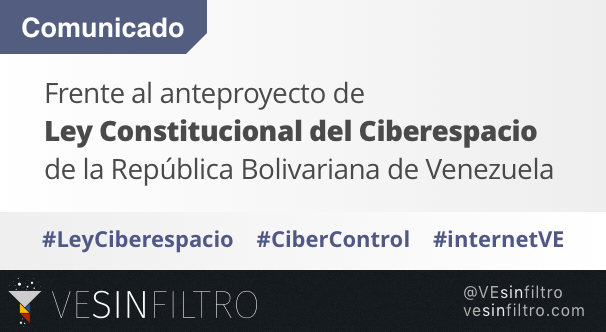
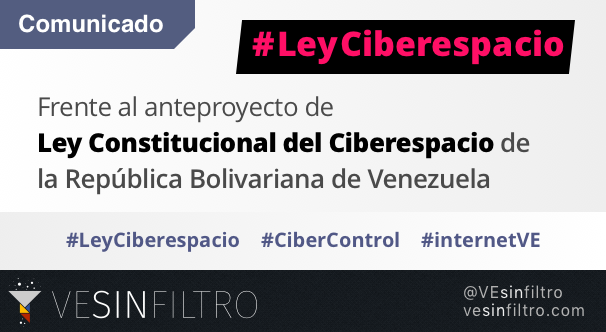
Updat img comunicado #leyciberespacio

Changed region(s): [[0.0594, 0.0602, 0.9505, 0.5723], [0.0594, 0.6928, 0.9505, 0.753], [0.0, 0.0, 0.3564, 0.1807]]

diff --git a/_noticias/2019-01-17-comunicado_ley_ciberespacio.md b/_noticias/2019-01-17-comunicado_ley_ciberespacio.md
@@ -1,11 +1,13 @@
 ---
 layout: post
 title: Frente al anteproyecto de Ley Constitucional del Ciberespacio de la República Bolivariana de Venezuela
-small: "Comunicado: Frente a la Ley del Ciberespacio"
+small: "Comunicado: Nos oponemos a la #LeyCiberespacio"
 excerpt: La Ley Constitucional del Ciberespacio justifica y expande aún más los poderes del gobierno para controlar y vigilar el uso de internet sin contrapesos institucionales.
 permalink: /noticias/comunicado_ley_ciberespacio/
 date:   2019-01-17 01:00:00 -0400
 categories: bloqueos
+image: /res/post_img/2019-01-17-comunicado.png
+
 ---
 
 ### COMUNICADO
@@ -18,21 +20,21 @@ Desde 2007 el Estado venezolano ha desarrollado políticas públicas orientadas 
 
 La Ley Constitucional del Ciberespacio justifica y expande aún más los poderes del gobierno para controlar y vigilar el uso de internet sin contrapesos institucionales, lo cual representa una grave amenaza a los derechos humanos de los venezolanos y venezolanas. El anteproyecto crea un sistema nacional de ciberdefensa, bajo la doctrina de "defensa integral de la Nación" con autoridad sobre un vagamente definido "Ciberespacio de la República Bolivariana de Venezuela", provocando que los venezolanos queden limitados a una red controlada, aislada y fragmentada.
 
-En síntesis, este proyecto tiene un enfoque de securitización del uso de tecnologías de información y comunicación, basado en nociones de soberanía, seguridad nacional y “control del orden interno” (Artículos 3, 5, 7 y 18) que se utilizan para justificar la adopción de medidas que violan derechos fundamentales, incluyendo la libertad de expresión, el derecho a participar en asuntos públicos y la protección de los datos personales. Adicionalmente, extiende el concepto de terrorismo a cualquier actividad realizada en internet o a través de ella, que pueda “causar terror” o “desestabilización económica, política o social” (Art. 4), lo que permitiría sancionar la expresión de opiniones legítimas. 
+En síntesis, este proyecto tiene un enfoque de securitización del uso de tecnologías de información y comunicación, basado en nociones de soberanía, seguridad nacional y “control del orden interno” (Artículos 3, 5, 7 y 18) que se utilizan para justificar la adopción de medidas que violan derechos fundamentales, incluyendo la libertad de expresión, el derecho a participar en asuntos públicos y la protección de los datos personales. Adicionalmente, extiende el concepto de terrorismo a cualquier actividad realizada en internet o a través de ella, que pueda “causar terror” o “desestabilización económica, política o social” (Art. 4), lo que permitiría sancionar la expresión de opiniones legítimas.
 
-Consideramos que las más graves vulneraciones a los derechos humanos y a los estándares internacionales se dan en las siguientes disposiciones: 
+Consideramos que las más graves vulneraciones a los derechos humanos y a los estándares internacionales se dan en las siguientes disposiciones:
 
-* Desconoce que el Estado venezolano es el garante de los derechos humanos fundamentales de todos los venezolanos y venezolanas. Coloca erróneamente al usuario como responsable de la seguridad en el Ciberespacio (Art. 13) y además le impone el deber de denunciar situaciones irregulares que pongan en riesgo o afecten el uso y acceso legal al Ciberespacio, la paz interna, el orden político, económico, social y/o el bien común en general (Art. 24). 
+* Desconoce que el Estado venezolano es el garante de los derechos humanos fundamentales de todos los venezolanos y venezolanas. Coloca erróneamente al usuario como responsable de la seguridad en el Ciberespacio (Art. 13) y además le impone el deber de denunciar situaciones irregulares que pongan en riesgo o afecten el uso y acceso legal al Ciberespacio, la paz interna, el orden político, económico, social y/o el bien común en general (Art. 24).
 * Contradice la doctrina y legislación de protección de datos personales, ya que pide que los usuarios respeten la integridad de lo datos personales (Art. 20), en lugar de garantizar desde el Estado su protección. La ley autoriza al Estado a tratar datos sensibles sin el consentimiento del usuario (Art. 22), ordena que la autoridad tenga acceso cuando solicite información almacenada por entes públicos y privados por razones de “defensa y seguridad”, “orden interno” y “protección de los derechos e intereses ciudadanos” (Arts. 18, 19 y 23), y permite a la autoridad supervisar, dar seguimiento y registrar los datos e informaciones transmitidas a través de cualquier servicio de internet o telecomunicaciones (Art. 25).  
-* Obliga a los proveedores de servicios de difusión de mensajes (lo cual puede incluir desde redes sociales hasta servicios de mensajería instantánea) a censurar contenidos sin orden judicial previa ni respeto por garantías mínimas de libertad de expresión, ni de debido proceso. Pone sobre ellos el oneroso deber de “prevenir, denunciar, neutralizar o eliminar la difusión de datos e información que atente contra el honor, vida privada, intimidad, propia imagen, reputación de las personas, publicidad engañosa e ilícitos, promoción del odio, intolerancia, discriminación, acoso, explotación sexual, pornografía infantil, o desestabilización económica, política, social de la Nación” (Art. 26). 
+* Obliga a los proveedores de servicios de difusión de mensajes (lo cual puede incluir desde redes sociales hasta servicios de mensajería instantánea) a censurar contenidos sin orden judicial previa ni respeto por garantías mínimas de libertad de expresión, ni de debido proceso. Pone sobre ellos el oneroso deber de “prevenir, denunciar, neutralizar o eliminar la difusión de datos e información que atente contra el honor, vida privada, intimidad, propia imagen, reputación de las personas, publicidad engañosa e ilícitos, promoción del odio, intolerancia, discriminación, acoso, explotación sexual, pornografía infantil, o desestabilización económica, política, social de la Nación” (Art. 26).
 * Crea el peligroso concepto de “seguridad del contenido” para legitimar herramientas, políticas, normas y “acciones preventivas” para “contrarrestar el odio” en internet (Arts. 10 y 11). Esto se alinea con las disposiciones de la “Ley Constitucional contra el Odio, por la Convivencia Pacífica y la Tolerancia” sancionada por la ANC en 2017 y que está siendo usada para perseguir a opositores políticos.
 * Crea una autoridad de control con excesivas facultades y dependiente del Poder Ejecutivo, dado que lo directores serán directa y libremente nombrados y removidos por el Presidente de la República (Art. 37). Entre las desmesuradas facultades atribuidas a la autoridad se encuentran: determinar qué es “acceso y uso correcto del ciberespacio”, realizar tareas de vigilancia ilimitadas, aplicar sanciones excesivas, adoptar medidas preventivas frente aquello que califique como cibercrimen, ciberataque, ciberterrorismo, o cualquier mensaje que consideren perjudicial o pueda ser considerado una amenaza (Art. 35).
-* Define de manera amplia y arbitraria qué es infraestructura crítica del ciberespacio y autoriza el control discrecional sobre ésta por parte del ente de ciberdefensa (capítulo III). 
+* Define de manera amplia y arbitraria qué es infraestructura crítica del ciberespacio y autoriza el control discrecional sobre ésta por parte del ente de ciberdefensa (capítulo III).
 * Establece que los titulares de datos, proveedores de servicios y usuarios deben, bajo solicitud, brindar acceso a la autoridad a todo “recurso tecnológico” que tengan y la obligación de cederlo (Art. 24).
- 
+
 Por todo lo expuesto, nos oponemos a la aprobación de este proyecto. La legitimidad de la Asamblea Nacional Constituyente ha sido puesta en duda por instituciones venezolanas e internacionales. Las leyes que regulen el uso de tecnologías de información y comunicación deberían ser promulgadas por instituciones ampliamente reconocidas para mantener la confianza en el ecosistema de internet y mediante procedimientos democráticos y participativos, cumpliendo estrictamente con estándares de derechos humanos.
 
-El anteproyecto presenta una grave amenaza a los derechos fundamentales de todos los venezolanos y las venezolanas, por lo que solicitamos a las instancias internacionales de protección a estar alertas sobre este anteproyecto de ley y a manifestar su posición con respecto a las vulneraciones a derechos fundamentales que propone. 
+El anteproyecto presenta una grave amenaza a los derechos fundamentales de todos los venezolanos y las venezolanas, por lo que solicitamos a las instancias internacionales de protección a estar alertas sobre este anteproyecto de ley y a manifestar su posición con respecto a las vulneraciones a derechos fundamentales que propone.
 
 ### Firman (en actualización permanente)
 
@@ -59,7 +61,7 @@ El anteproyecto presenta una grave amenaza a los derechos fundamentales de todos
 * Open Net Korea
 * League of African bloggers and cyberactivists for democracy – AFRICTIVISTES
 
-* Raisa Urribarri 
+* Raisa Urribarri
 * Andrés Cañizález - Profesor universitario y periodista.
 * Luis Carlos Diaz Vazquez - Periodista
 * Iván Méndez - Periodista
